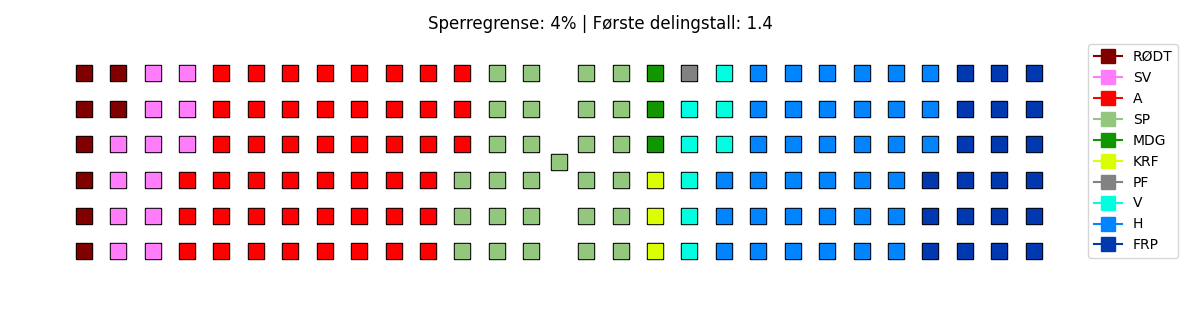
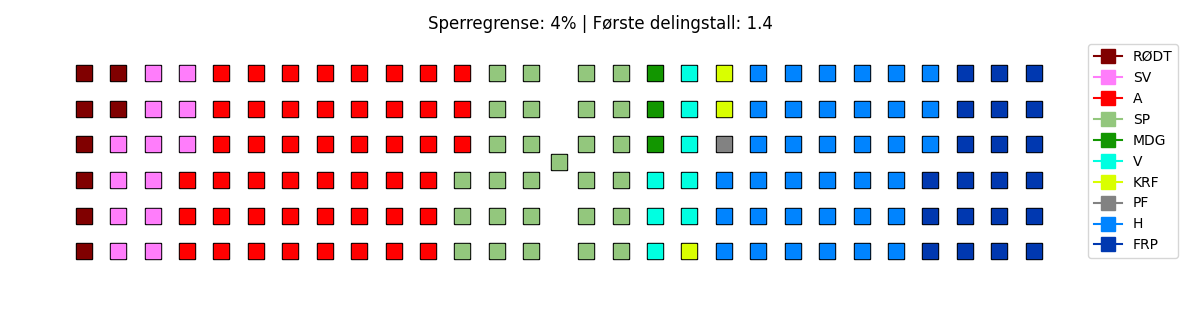
Added option for couchvoter and blankvoter parties

diff --git a/election.py b/election.py
@@ -11,7 +11,7 @@ from district import District
 
 
 class Norway:
-    def __init__(self, args, filename = "2021-09-17_partydist.csv", num_leveling_seats = 1):
+    def __init__(self, args, filename = "2021-09-21_partydist_final.csv", num_leveling_seats = 1):
         self._active_message = False
         self.args = args
         self.results = pd.read_csv(filename, delimiter = ";")
@@ -107,15 +107,18 @@ class Norway:
                                  "A":    "#ff0000",
                                  "SP":   "#93c77d",
                                  "MDG":  "#129600",
+                                 "HJEM": "#ededed", # Hjemmesitterne
+                                 "BLANKE": "#000000", # Blankpartiet
                                  "PP":   "#386782",
                                  "PS":   "#b3321c",
+                                 "V":    "#00ffe1",
                                  "KRF":  "#d9ff00",
                                  "PF":   "#828282",
                                  "INP":  "#ffb300",
-                                 "V":    "#00ffe1",
                                  "H":    "#0084ff",
                                  "FRP":  "#0038b0",
-                                 "DEMN": "#7211b0",}
+                                 "DEMN": "#7211b0",
+                                 }
 
         all_parties = self.results.Partikode.unique()
         for party in all_parties:
@@ -207,6 +210,9 @@ class Norway:
             votes_per_seat[district_name] = [district_name,
                                              np.round(total_votes_dis/total_seats[district_name], 1)]
 
+            district_eligibles = results_dis["Antall stemmeberettigede"].iloc[0]
+            participation = total_votes_dis/district_eligibles*100
+
             electoral_district = District(seats_without_leveling[district_name],
                                           initial_divisor = self.args.initialdivisor,
                                           method = method)
@@ -224,17 +230,31 @@ class Norway:
                     if party in self.add_votes_dict[district_name]:
                         votes_add = self.add_votes_dict[district_name][party]
                         votes += votes_add
-                        self.total_votes += votes_add
 
                 if party in self.transfer_votes_dict:
                     party = self.transfer_votes_dict[party]
+
+                if party == "BLANKE" and (self.args.couchvoters or self.args.combinecouchblank):
+                    couchvoters = district_eligibles - total_votes_dis
+                    self.total_votes += couchvoters
+                    self.total_minus_blanks += couchvoters
+                    if self.args.combinecouchblank:
+                        votes = couchvoters + votes
+                        party = "HJEM"
+                    else:
+                        if "HJEM" in party_votes_total:
+                            party_votes_total["HJEM"] += couchvoters
+                        else:
+                            party_votes_total["HJEM"] = couchvoters
+                        electoral_district.add_votes("HJEM", couchvoters)
+                        district_votes_distribution["HJEM"] = couchvoters
 
                 if party in party_votes_total:
                     party_votes_total[party] += votes
                 else:
                     party_votes_total[party] = votes
 
-                if party == "BLANKE":
+                if party == "BLANKE" and not self.args.blankparty:
                     continue
                 electoral_district.add_votes(party, votes)
                 district_votes_distribution[party] = votes
@@ -242,13 +262,14 @@ class Norway:
             if self.args.hardlimit:
                 # stop parties with less than the leveling limit from gaining any seats at all (even direct district seats)
                 for party in parties:
-                    if party == "BLANKE":
+                    if party == "BLANKE" and not self.args.blankparty:
                         continue
                     party_votes_total_this = results[results["Partikode"] == party]
                     party_votes_total_this = party_votes_total_this.sum()
-                    if party_votes_total_this["Antall stemmer totalt"]/(self.total_votes
-                                                                        - self.number_of_blanks)*100 < self.args.levelinglimit:
+                    if party_votes_total_this["Antall stemmer totalt"]/(self.total_minus_blanks)*100 < self.args.levelinglimit:
                         electoral_district.remove_party(party)
+
+            district_votes_distribution["Deltagelse (%)"] = np.round(participation, 2)
 
             district_distribution = electoral_district.calculate()
             district_distributions[district_name] = district_distribution
@@ -261,6 +282,8 @@ class Norway:
                     distribution[party] += seats
                 else:
                     distribution[party] = seats
+
+        party_names["HJEM"] = "Hjemmesitterne"
 
         self.party_votes_total = party_votes_total
         self.party_names = party_names
@@ -281,13 +304,13 @@ class Norway:
         parties_competing_votes = {}
 
         for party, votes in self.party_votes_total.items():
-            if party == "BLANKE":
+            if party == "BLANKE" and not self.args.blankparty:
                 continue
             if party in self.distribution:
                 seats = self.distribution[party]
             else:
                 seats = 0
-            party_percent_of_total = self.party_votes_total[party]/(self.total_votes - self.number_of_blanks)*100
+            party_percent_of_total = self.party_votes_total[party]/(self.total_minus_blanks)*100
             party_vote_shares[party] = np.round(party_percent_of_total, 2)
         
             if party_percent_of_total >= leveling_seats_limit:
@@ -330,13 +353,13 @@ class Norway:
                 diff = seats - seats_before
             else:
                 diff = 0
-            votes_for_leveling = np.ceil(((leveling_seats_limit/100)*(self.total_votes - self.number_of_blanks) - self.party_votes_total[party])/(1 - leveling_seats_limit/100)) # votes required for the party to gain leveling seats
+            votes_for_leveling = np.ceil(((leveling_seats_limit/100)*(self.total_minus_blanks) - self.party_votes_total[party])/(1 - leveling_seats_limit/100)) # votes required for the party to gain leveling seats
             distribution_with_leveling[party] = [seats, diff, party_vote_shares[party], self.party_votes_total[party], votes_for_leveling]
 
         for party, seats in leveling_distribution.items():
             if not party in self.distribution:
                 seats = leveling_distribution[party]
-                votes_for_leveling = np.ceil(((leveling_seats_limit/100)*(self.total_votes - self.number_of_blanks) - self.party_votes_total[party])/(1 - leveling_seats_limit/100)) # votes required for the party to gain leveling seats
+                votes_for_leveling = np.ceil(((leveling_seats_limit/100)*(self.total_minus_blanks) - self.party_votes_total[party])/(1 - leveling_seats_limit/100)) # votes required for the party to gain leveling seats
                 distribution_with_leveling[party] = [seats, seats, party_vote_shares[party], self.party_votes_total[party], votes_for_leveling]
 
         self.leveling_distribution = leveling_distribution # just the distribution for the leveling seats
@@ -407,7 +430,10 @@ class Norway:
         num_possible_voters = results[results["Partikode"] == "BLANKE"]["Antall stemmeberettigede"]
         percent_blanks = blank_votes["Antall stemmer totalt"]/num_possible_voters*100
         blank_votes["% av stemmeberettigede"] = percent_blanks
-        self.number_of_blanks = blank_votes["Antall stemmer totalt"].sum(axis = 0)
+        if self.args.couchvoters or self.args.blankparty:
+            self.number_of_blanks = 0
+        else:
+            self.number_of_blanks = blank_votes["Antall stemmer totalt"].sum(axis = 0)
         self.total_minus_blanks = self.total_votes - self.number_of_blanks
         self.blank_votes = blank_votes
 
@@ -755,7 +781,7 @@ class NewCountiesNorway(Norway):
                         "Oslo": [3],
                         "Trøndelag": [16, 17]}
 
-        locations = {"Viken":                [0.85, 1.1],
+        locations = {"Viken":                [-1.5, 0.8],
                      "Oslo":                 [0, 0],
                      "Innlandet":            [-0.6, 2],
                      "Vestfold og Telemark": [-1.9, -0.6],
@@ -892,6 +918,15 @@ def parse_args():
                         action = "store_true")
     parser.add_argument("-U", "--usadist",
                         help = "Distribute seats to the districts in a similar way similar to the method used for the states in the US",
+                        action = "store_true")
+    parser.add_argument("-C", "--couchvoters",
+                        help = "Include the 'couchvoters' party in the calculation (people who don't vote) [note: does not work when using new counties]",
+                        action = "store_true")
+    parser.add_argument("-b", "--blankparty",
+                        help = "Include the 'blank' party in the calculation (people who vote blank)",
+                        action = "store_true")
+    parser.add_argument("-c", "--combinecouchblank",
+                        help = "Combine the 'blank party' and the 'couchvoter' party into one",
                         action = "store_true")
     parser.add_argument("-B", "--blanks",
                         help = "Display statistics for blank votes",
